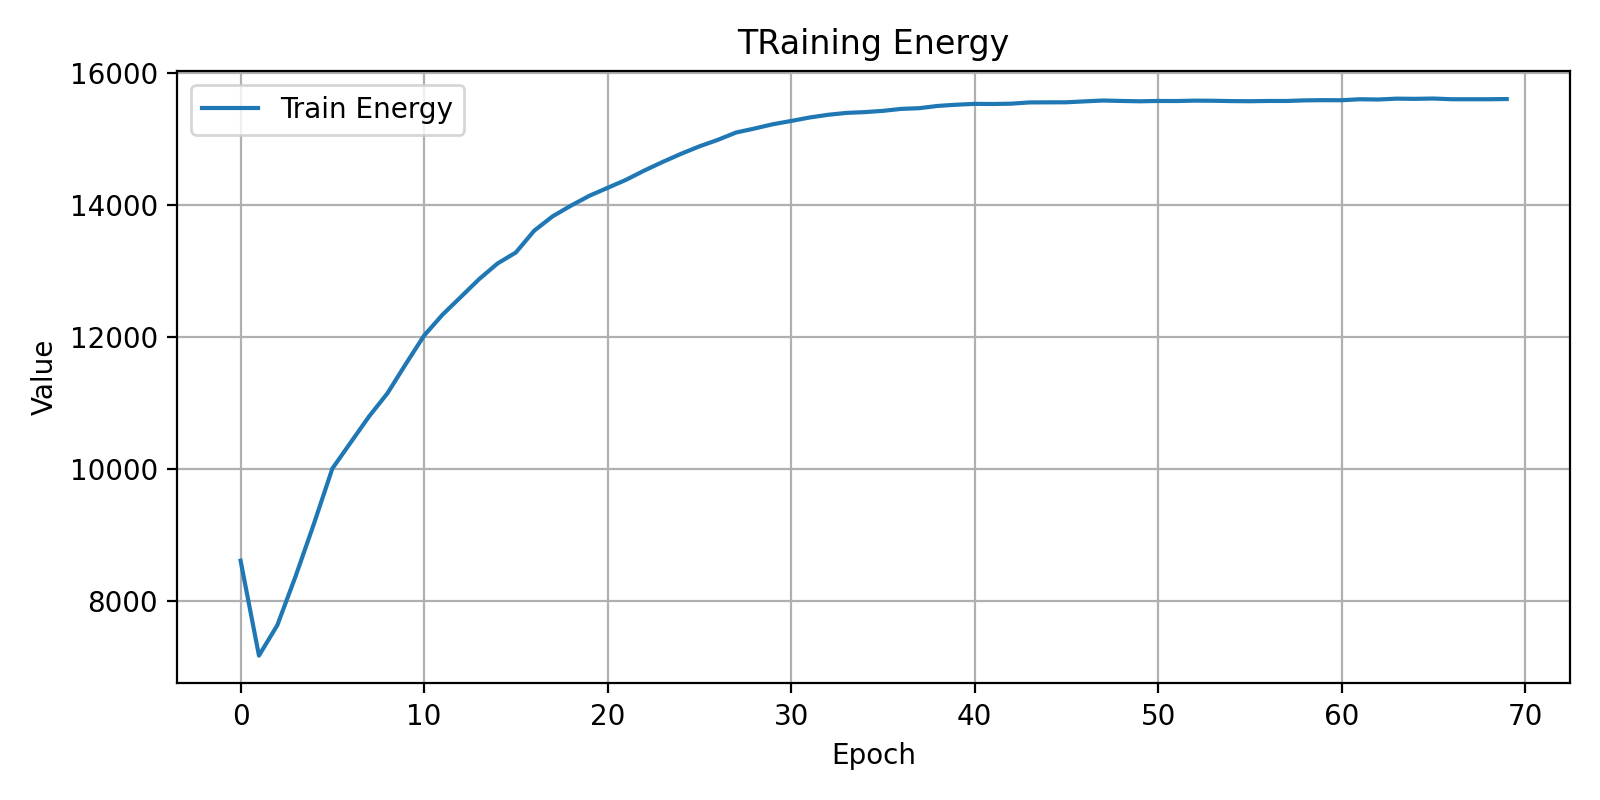
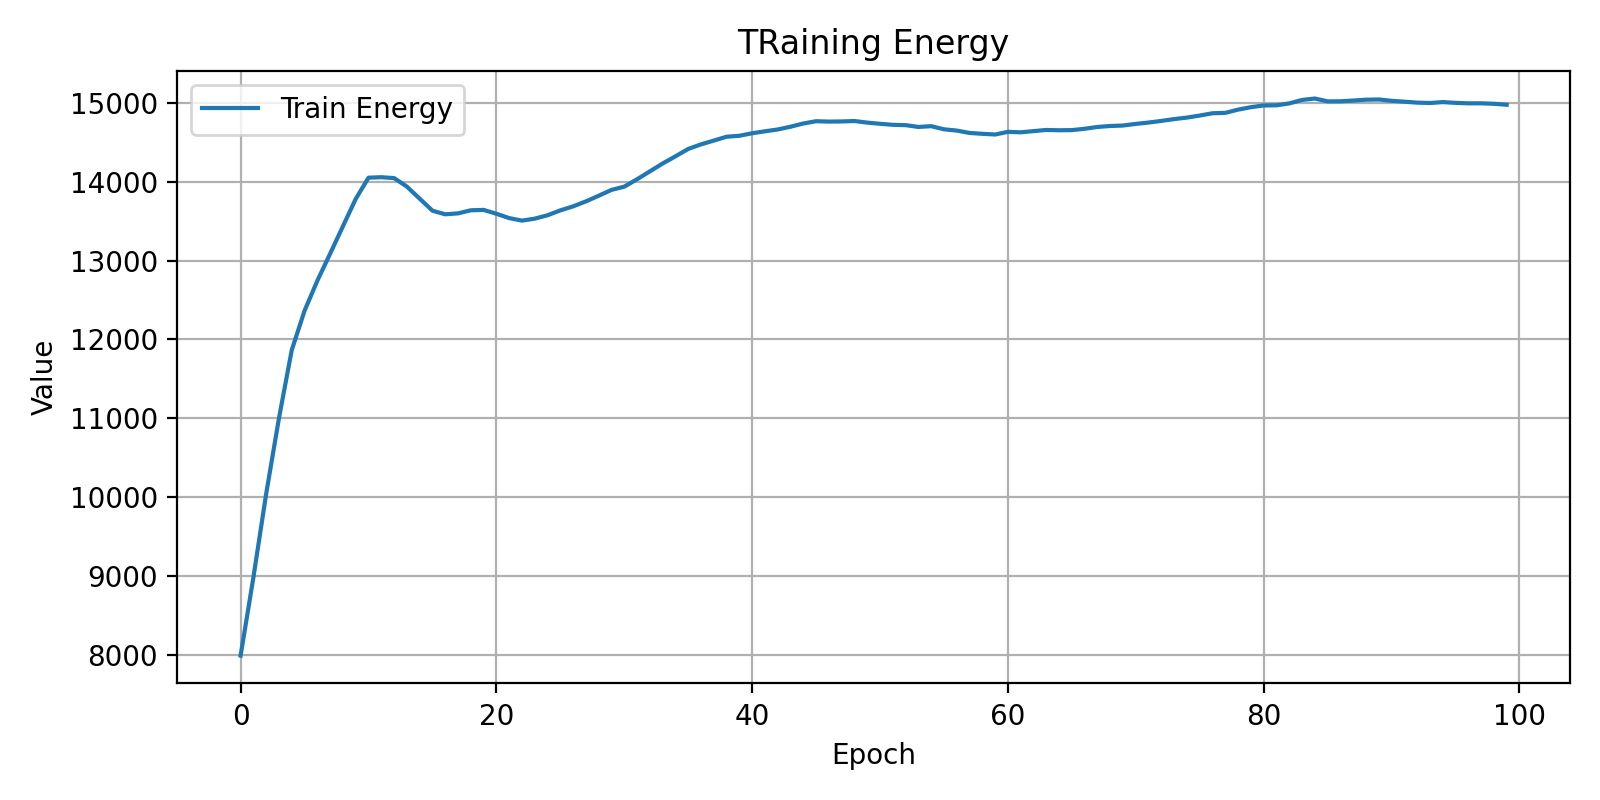
Finished Iris

diff --git a/05_spike_bp.py b/05_spike_bp.py
@@ -15,7 +15,7 @@ from functions.metrics import macro_precision_recall_f1, precision_recall_f1_bin
 #-------------------------------------------------------------------------------------
 random_state = 42
 
-dataset = load_breast_cancer()
+dataset = load_iris()
 X = dataset.data
 y = dataset.target
 
@@ -35,13 +35,13 @@ y_test_tensor = torch.from_numpy(y_test).long()
 #-------------------------------------------------------------------------------------
 beta = 0.95
 T = 20
-epochs = 70
+epochs = 100
 bias = False
 lr = 0.1
 threshold = 1.0
 
 input_dim = X_train.shape[1]
-hidden_dim = 32
+hidden_dim = 16
 output_dim = int(torch.unique(y_train_tensor).numel())
 
 model_snn = SpikeNeuralNetwork(
@@ -55,7 +55,7 @@ model_snn = SpikeNeuralNetwork(
 ce = nn.CrossEntropyLoss()
 opt = torch.optim.Adam(model_snn.parameters(), lr=lr)
 
-out_dir = "results/breast_cancer/snn"
+out_dir = "results/iris/snn"
 #-------------------------------------------------------------------------------------
 # Training Loop
 #-------------------------------------------------------------------------------------
@@ -98,7 +98,7 @@ plt.title("Training Loss & Accuracy")
 plt.legend()
 plt.grid(True)
 plt.tight_layout()
-plt.savefig(out_dir + "/breast_classic_bp_train_curves.png", dpi=200)
+plt.savefig(out_dir + "/iris_snn_bp_train_curves.png", dpi=200)
 plt.show()
 
 plt.figure(figsize=(8,4))
@@ -109,8 +109,10 @@ plt.title("TRaining Energy")
 plt.legend()
 plt.grid(True)
 plt.tight_layout()
-plt.savefig(out_dir + "/breast_classic_bp_energy.png", dpi=200)
+plt.savefig(out_dir + "/iris_snn_bp_energy.png", dpi=200)
 plt.show()
+
+
 #-------------------------------------------------------------------------------------
 # Evaluation on test dataset
 #-------------------------------------------------------------------------------------
@@ -124,7 +126,7 @@ with torch.no_grad():
 
     print(f"Test:\nLoss: {test_loss:.4f} | Acc: {test_acc:.4f} | ")
     
-p, r, f1 = precision_recall_f1_binary(logits_te.argmax(dim=1), y_test_tensor)
+p, r, f1 = macro_precision_recall_f1(logits_te.argmax(dim=1), y_test_tensor, output_dim)
 
 print(f"Evaluation on the test set:")
 print(f"Test Loss: {test_loss}")
@@ -134,7 +136,7 @@ print(f"Test recall: {r}")
 print(f"Test f1-score: {f1}")
 print(f"Test Energy: {energy_te:.4f}")
 
-with open(out_dir + "/breast_snn_bp.txt", "w", encoding="utf-8") as f:
+with open(out_dir + "/iris_snn_bp.txt", "w", encoding="utf-8") as f:
     f.write("Evaluation on the test set\n")
     f.write(f"Test Loss: {test_loss:.5f}\n")
     f.write(f"Test Acc: {test_acc:.5f}\n")

diff --git a/mean_dev.py b/mean_dev.py
@@ -1,0 +1,36 @@
+import numpy as np
+
+# =========================
+# OUTPUT FILE NAME
+# =========================
+output_dir = 'results/iris/snn/gaco/'
+output_file = output_dir + "gaco_iris_results_summary.txt"
+
+# =========================
+# INSERT HERE YOUR 5 VALUES
+# =========================
+results = {
+    "Accuracy":  [0.86667, 0.86667, 0.83333, 0.96667, 0.96667],
+    "Precision": [0.86742, 0.87963, 0.84982, 0.96970, 0.96970],
+    "Recall":    [0.86667, 0.86667, 0.83333, 0.96667, 0.96667],
+    "F1-score":  [0.86705, 0.87310, 0.84149, 0.96818, 0.96818],
+    "ASN":       [321.60000, 477.70000, 297.45000, 279.65000, 279.65000]
+}
+with open(output_file, "w", encoding="utf-8") as f:
+    f.write("Results summary\n")
+    f.write("=========================\n\n")
+
+    for metric_name, values in results.items():
+        values = np.array(values, dtype=float)
+
+        mean_val = np.mean(values)
+        std_val = np.std(values, ddof=1)
+
+        f.write(f"{metric_name}\n")
+        f.write(f"Values: {values.tolist()}\n")
+        f.write(f"Mean: {mean_val:.5f}\n")
+        f.write(f"Std:  {std_val:.5f}\n")
+        f.write(f"For table: {mean_val:.4f} ± {std_val:.4f}\n")
+        f.write("\n")
+
+print(f"Results saved in '{output_file}'")

diff --git a/07_spike_meta.py b/07_spike_meta.py
@@ -19,7 +19,7 @@ from functions.SNNProblem_snn import SNNProblem_snn
 #----------------------------------------------
 random_state = 42
 
-iris = load_wine()
+iris = load_iris()
 X = iris.data.astype(np.float32)
 y = iris.target.astype(np.int64)
 
@@ -86,9 +86,8 @@ upd = SNNProblem_snn(
 #-------------------------------------------
 prob = pg.problem(upd)
 
-algo = pg.algorithm(pg.bee_colony(
-    gen=gen,
-    limit=20
+algo = pg.algorithm(pg.sga(
+    gen=gen
 ))
 algo.set_verbosity(1)   #for visualization
 pop = pg.population(prob, size=pop, seed=random_state)
@@ -132,9 +131,9 @@ print(f"Test recall: {r}")
 print(f"Test f1-score: {f1}")
 print(f"Test Energy per sample: {(energy_te / T):.5f}")
 
-out_dir = 'results/wine/snn/bee'
+out_dir = 'results/iris/snn/sga'
 
-with open(out_dir + "/wine_snn_bee_4.txt", "w", encoding="utf-8") as f:
+with open(out_dir + "/iris_snn_sga_3.txt", "w", encoding="utf-8") as f:
     f.write("Evaluation on the test set\n")
     f.write(f"Test Loss: {test_loss:.5f}\n")
     f.write(f"Test Acc: {test_acc:.5f}\n")
